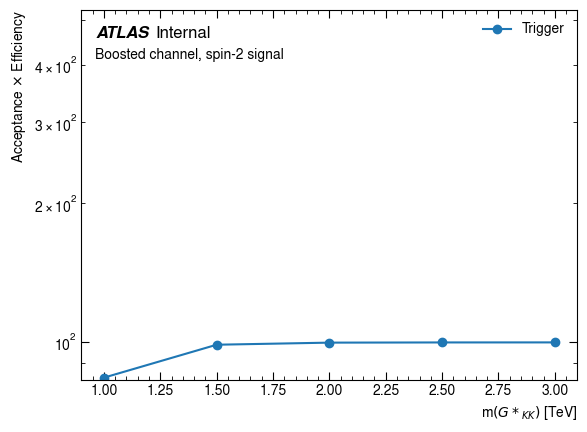
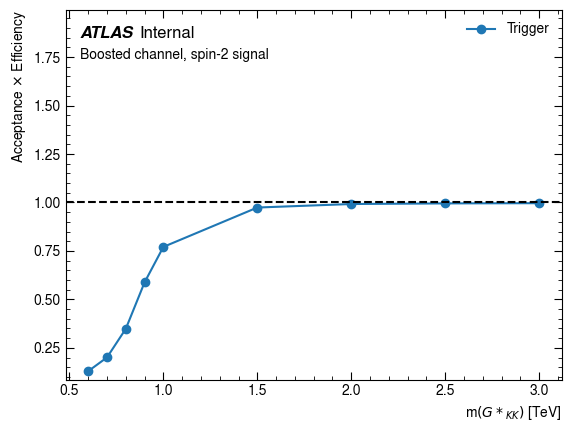
Rewrite with awkward arrays

diff --git a/plot_trig_eff.py b/plot_trig_eff.py
@@ -22,17 +22,13 @@ invGeV = 1 / 1000
 
 
 def get_trig_passed(sample):
-    trig_passed = np.array(
-        [
-            sample[trig]
-            for trig in sample.keys()
-            if (
-                trig.startswith("trigPassed_HLT_j360")
-                | trig.startswith("trigPassed_HLT_j420")
-            )
-        ]
-    )
+    trig_passed = sample["trigPassed_HLT_j420_a10t_lcw_jes_35smcINF_L1J100"]
     return trig_passed
+
+
+def get_total_events(sample):
+    total_events = sample["cutbookkeepers"][0].values()[0]
+    return total_events
 
 
 def get_mass_point(sample_name):
@@ -41,7 +37,7 @@ def get_mass_point(sample_name):
 
 
 def compute_eff(trig_passed, total):
-    tot_trig_passed = np.sum(trig_passed)
+    tot_trig_passed = ak.sum(trig_passed)
     eff = tot_trig_passed / total
     return eff
 
@@ -52,7 +48,7 @@ def draw_trig_eff(largeR_dict):
     trig_passed = []
     mass_points = []
     for sample_name, sample in largeR_dict.items():
-        total_events += [sample["cutbookkeepers"][0][0]]
+        total_events += [get_total_events(sample)]
         trig_passed += [get_trig_passed(sample)]
         mass_points += [get_mass_point(sample_name)]
 
@@ -66,10 +62,7 @@ def draw_trig_eff(largeR_dict):
         atlas_sec_tag="Boosted channel, spin-2 signal",
         marker="o",
         enlarge=2,
-        # enlarge=30, # if y-axis log scale
     )
-    # ax_trigEff.set_yscale("log")
-
     ax_trigEff.axhline(y=1.0, color="k", linestyle="--")
     fig_trigEff.savefig("trig_eff.png", bbox_inches="tight")
 
@@ -89,11 +82,10 @@ def run():
     }
     for sname, fname in samples.items():
         with uproot.open(f"{fname}") as f:
-            cbk_key = [key for key in f.keys() if key.startswith("CutBookkeeper")][0]
-            cbk = f[cbk_key]
             tree = f["AnalysisMiniTree"]
-            branches = tree.arrays(filter_name="/trigPassed_HLT/i", library="np")
-            branches["cutbookkeepers"] = cbk.to_numpy()
+            cbk_key = [key for key in f.keys() if key.startswith("CutBookkeeper")][0]
+            branches = tree.arrays(filter_name="/trigPassed_HLT/i")
+            branches["cutbookkeepers"] = f[cbk_key]
             largeR_dict[sname] = branches
     draw_trig_eff(largeR_dict)
 
